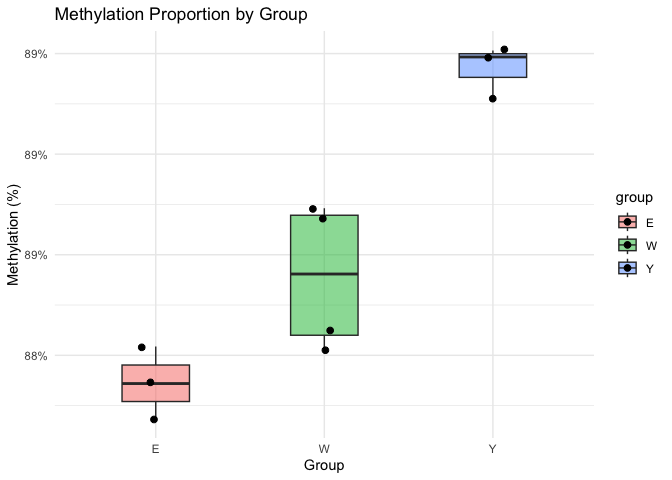
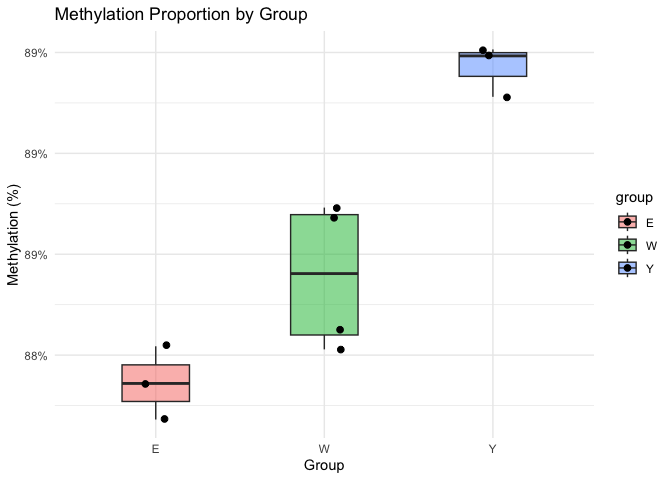
rmd

diff --git a/results/2025-09-11/README.md b/results/2025-09-11/README.md
@@ -938,4 +938,8 @@ RNA</caption>
 </tbody>
 </table>
 
+### IGV snapshots
+
+![Fos](igv_snapshot_fos.png) ![Igf2bp1](igv_snapshot_igf2bp1.png)
+
 data: [sig\_diff.csv](sig.csv)
